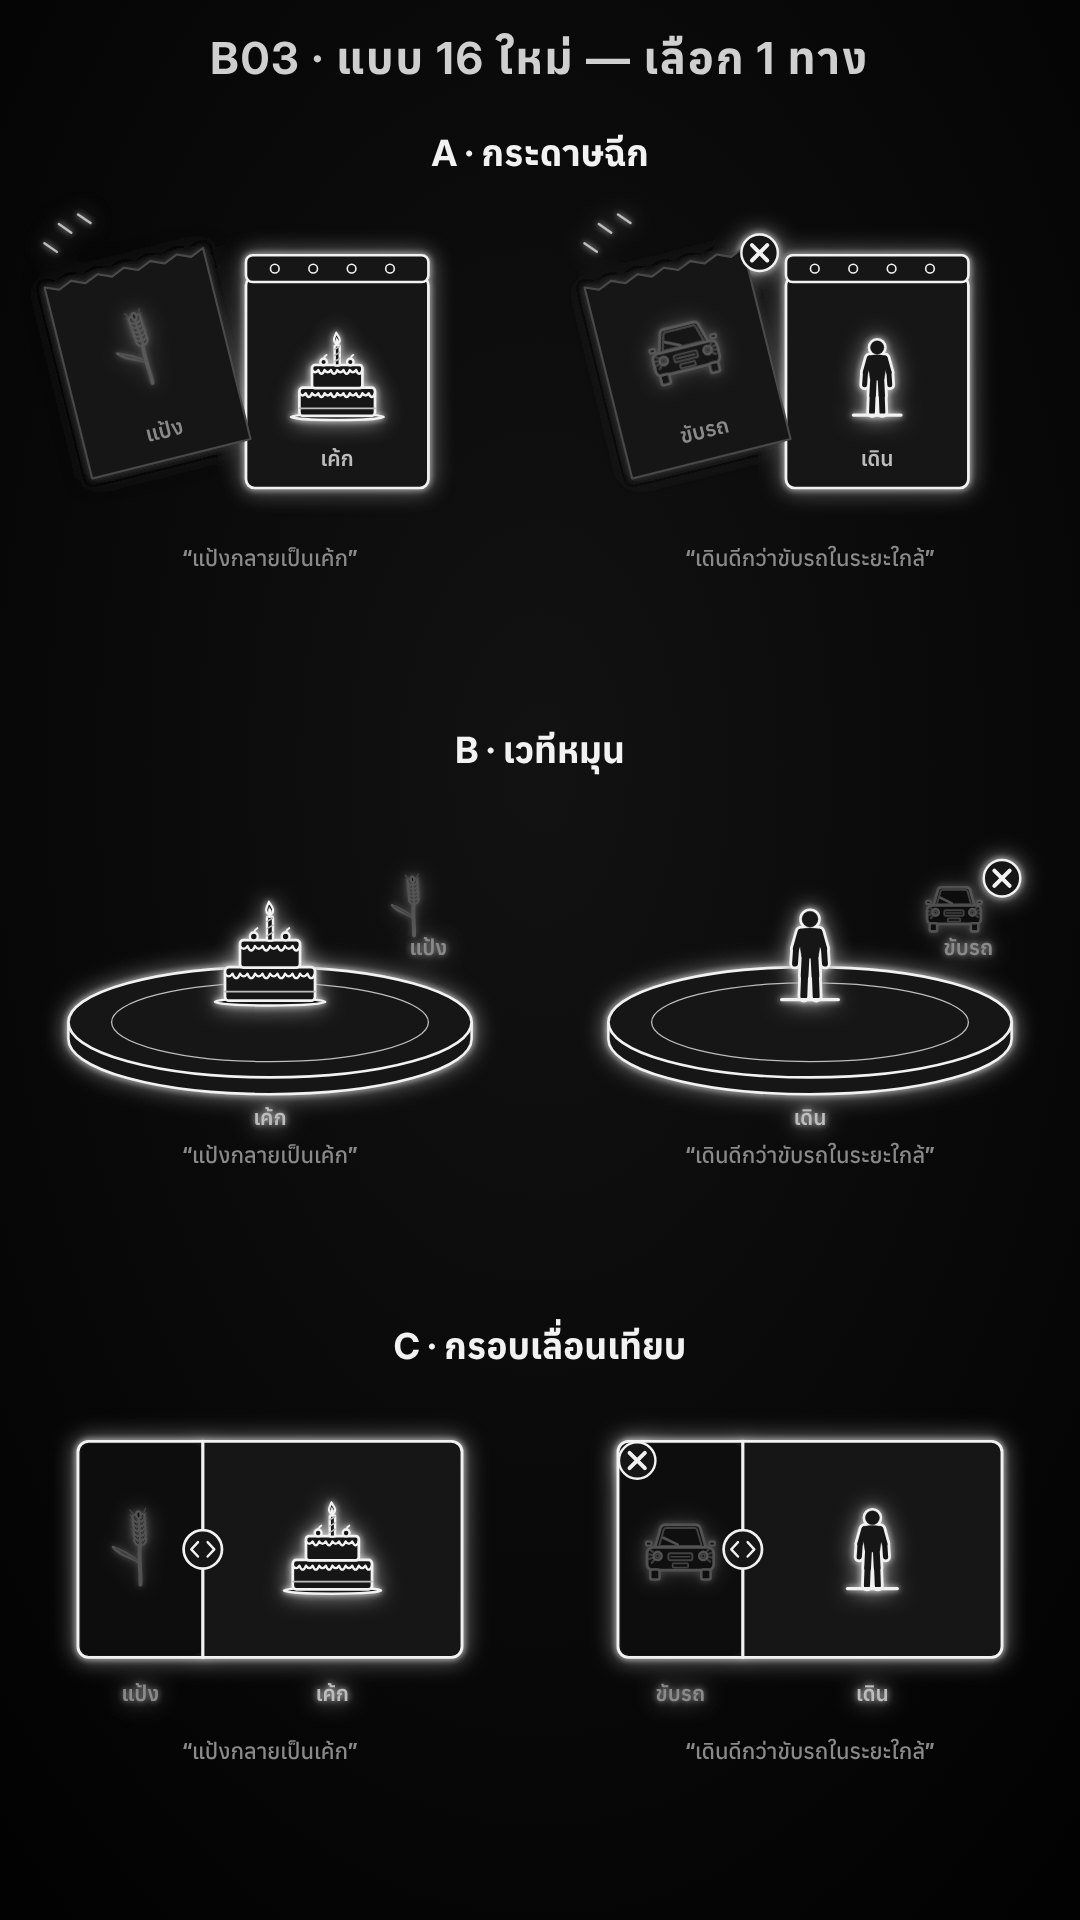
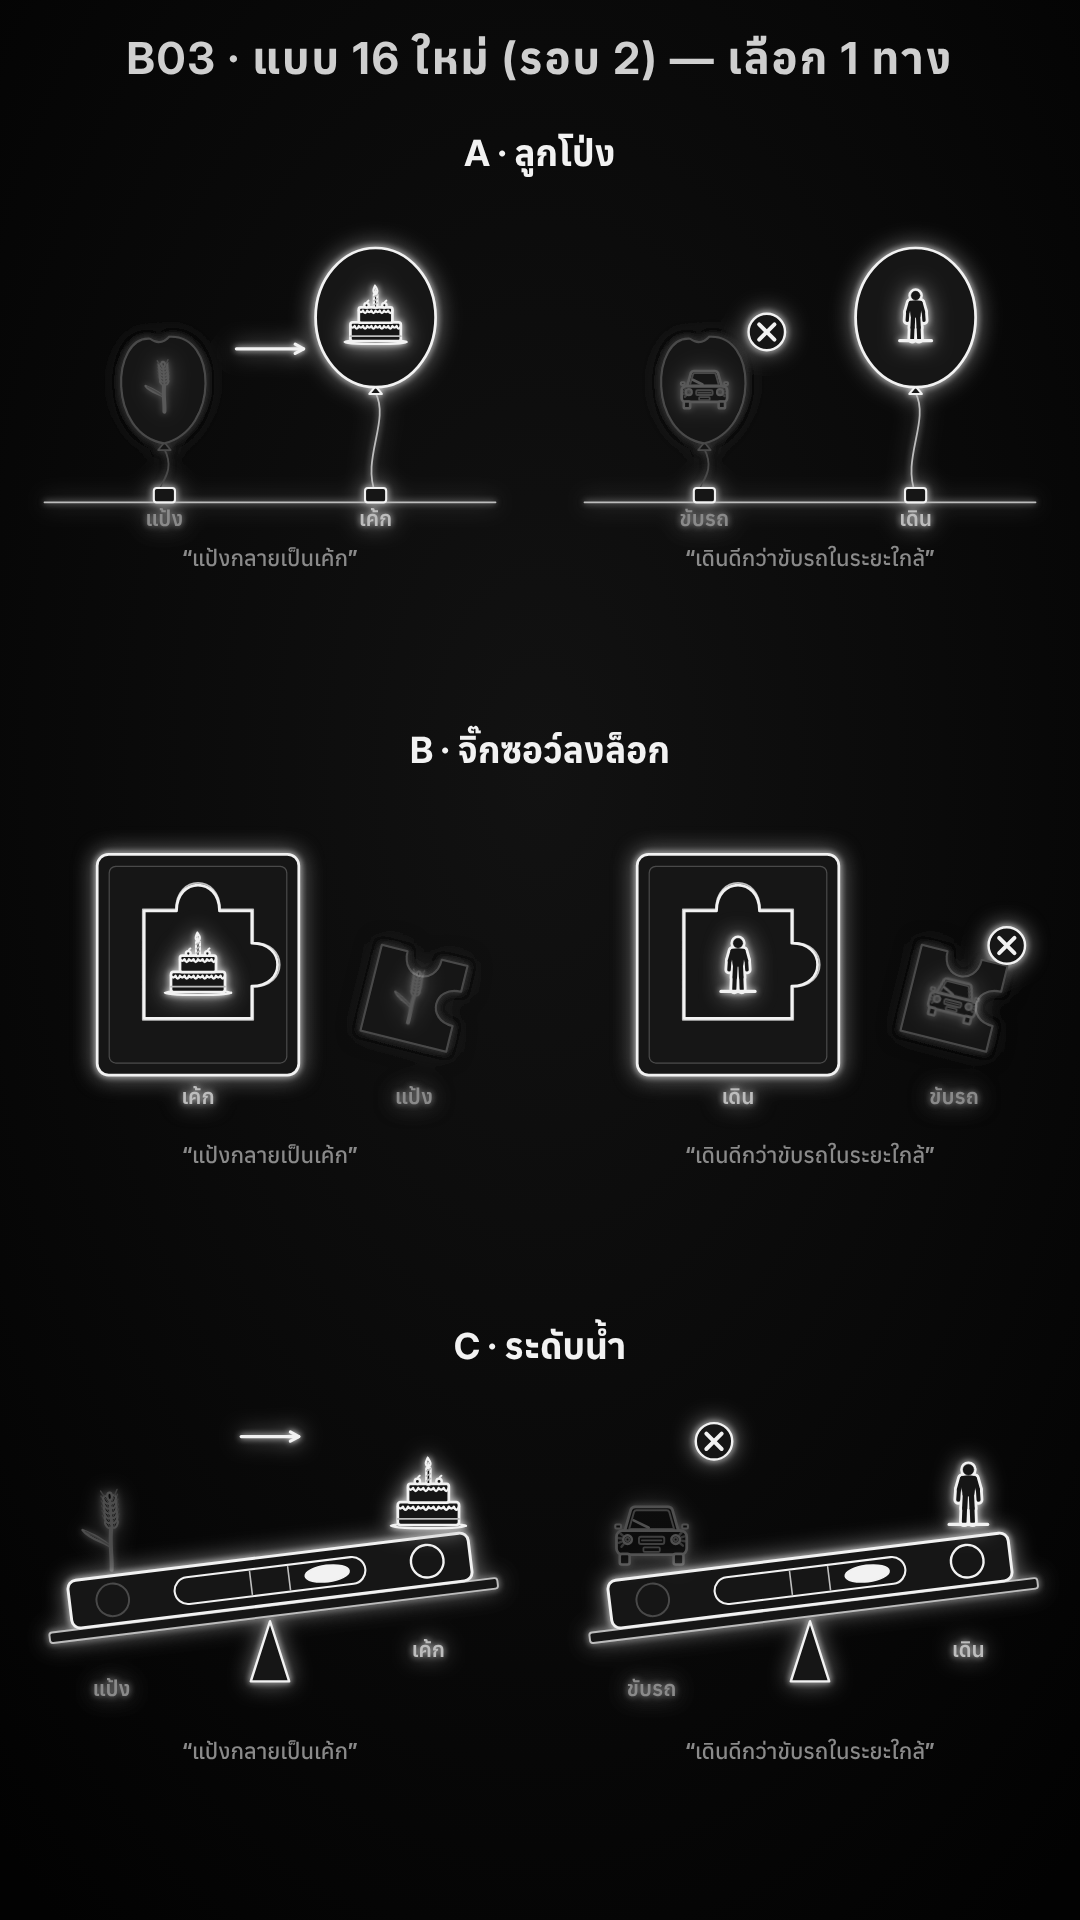
glow-line-motion: B03 design 16 — second round of options (balloons / puzzle / spirit level)
Claude-Session: https://claude.ai/code/session_01S8EfU7fAEGeBWyNc1CqSTP

diff --git a/.claude/skills/glow-line-motion/examples/b03/b03.js b/.claude/skills/glow-line-motion/examples/b03/b03.js
@@ -368,53 +368,65 @@
     icon(d.a.icon, 0, -190, 120, c, .1, { dimTo: .35, dimAt: H - .4 }); icon(d.b.icon, 0, 140, 140, c, H - .15, { punch: true });
   }, d => d.mode === 'change');
 
-  /* 16 alternatives (user: "16 Redesign ใหม่", 2026-11-13) — all take versus AND change; kept outside V until the user picks one */
+  /* 16 alternatives, round 2 (user: "16 Redesign มาใหม่อีก", 2026-11-13; turned down tear pad / turntable / compare frame) —
+     all take versus AND change; kept outside V until the user picks one */
   const ALT16 = [];
   const alt = (id, th, build) => ALT16.push({ id, th, build });
 
-  /* 16a ── TEAR PAD: the top page (the loser / "before") is torn off and flies away; the winner / "after" is the page left on the pad */
-  alt('pad', 'กระดาษฉีก', (d, c) => {
-    const T = st(d), keep = T.win || 'b', torn = keep === 'a' ? 'b' : 'a', px = -255, py = -10, pr = -14;
+  /* 16a ── BALLOONS: each side floats in a balloon tied to the ground — the winner (or more) floats high and full, the loser hangs low and limp */
+  alt('balloons', 'ลูกโป่ง', (d, c) => {
+    const T = st(d), X = { a: -220, b: 220 }, Y = s => 150 - T.amt(s) * 300, full = s => s !== T.lose;
     art(c, p => {
-      p.rect(-50, -190, 380, 440, Object.assign({ rx: 18 }, F(3.4)));
-      p.rect(-50, -235, 380, 56, Object.assign({ rx: 14 }, F(3.2))); [10, 90, 170, 250].forEach(x => p.circle(x, -207, 9, W(2)));
-      if (d[keep].label) txt(p, d[keep].label, 140, 205, { maxW: 320 });
-      const tp = sub(p, { transform: `rotate(${pr} ${px} ${py})` });
-      const zz = []; for (let k = 0; k <= 12; k++) zz.push([px - 170 + k * 340 / 12, py - 205 + (k % 2 ? 12 : 0)]);
-      tp.path(`M ${px - 170} ${py + 205} L ${px - 170} ${py - 205} ` + zz.map(([x, y]) => `L ${f1(x)} ${f1(y)}`).join(' ') + ` L ${px + 170} ${py + 205} Z`, T.win ? { fill: C.fill, sw: 2.6, stroke: C.rule } : F(3.2));
-      if (d[torn].label) txt(tp, d[torn].label, px, py + 160, { maxW: 280, color: T.win ? C.mute : C.soft });
-      [[-470, -260], [-440, -300], [-400, -320]].forEach(([x, y]) => p.line(x, y, x + 26, y + 18, { sw: 3, stroke: C.soft }));
-      marks(p, d, { [keep]: [320, -170], [torn]: [px + 150, py - 230] });
+      p.line(-470, 280, 470, 280, { sw: 2, stroke: C.soft });
+      ['a', 'b'].forEach(s => { const x = X[s], y = Y(s), rx = full(s) ? 125 : 100, ry = full(s) ? 145 : 112, by = y + ry;
+        p.path(`M ${x} ${f1(by + 12)} C ${x + 30} ${f1(by + 70)}, ${x - 30} ${f1((by + 280) / 2 + 30)}, ${x} 262`, { sw: 2.2, stroke: full(s) ? C.soft : C.rule });
+        p.rect(x - 22, 250, 44, 30, Object.assign({ rx: 6 }, F(2.6)));
+        p.path(`M ${x - 13} ${f1(by + 14)} L ${x} ${f1(by - 2)} L ${x + 13} ${f1(by + 14)} Z`, full(s) ? F(2.6) : { fill: C.fill, sw: 2, stroke: C.rule });
+        if (full(s)) p.ellipse(x, y, rx, ry, F(3.4));
+        else p.path(`M ${x} ${f1(by)} C ${x - 120} ${f1(by - 20)}, ${x - 110} ${f1(y - ry)}, ${x - 30} ${f1(y - ry + 6)} Q ${x - 8} ${f1(y - ry + 22)} ${x + 10} ${f1(y - ry + 2)} C ${x + 110} ${f1(y - ry - 4)}, ${x + 115} ${f1(by - 30)}, ${x} ${f1(by)} Z`, { fill: C.fill, sw: 2.6, stroke: C.rule });
+        if (d[s].label) txt(p, d[s].label, x, 330, { maxW: 300, color: full(s) ? C.soft : C.mute }); });
+      if (T.change) arrow(p, -70, -40, 70, -40, 4, 0);
+      marks(p, d, { a: [X.a + 130, Y('a') - 120], b: [X.b + 130, Y('b') - 120] });
     });
-    icon(d[keep].icon, 140, 20, 210, c, .1);
-    icon(d[torn].icon, px, py - 30, 160, c, .1, { dimTo: T.win ? .3 : 1, keys: { r: [[0, pr]] }, pivot: [px, py] });
+    ['a', 'b'].forEach(s => icon(d[s].icon, X[s], Y(s) - 4, full(s) ? 140 : 110, c, .1, { dimTo: T.dim(s) }));
   });
 
-  /* 16b ── TURNTABLE: a round stage turns — the winner / "after" comes round to the front and big, the other goes to the back, small and faint */
-  alt('stage', 'เวทีหมุน', (d, c) => {
-    const T = st(d), front = T.win || (T.change ? 'b' : null), back = front ? (front === 'a' ? 'b' : 'a') : null;
+  /* 16b ── PUZZLE: a board with one empty slot — the winner's piece (or the "after") clicks into it; the other piece doesn't fit and lies aside */
+  const piece = (q, x, y, z, inward, st2) => { const h = z / 2, t = z * .2, k = inward ? -1 : 1;
+    q.path(`M ${x - h} ${y - h} L ${x - t} ${y - h} C ${x - t} ${y - h - k * t * 1.6}, ${x + t} ${y - h - k * t * 1.6}, ${x + t} ${y - h} L ${x + h} ${y - h} L ${x + h} ${y - t} C ${x + h + k * t * 1.6} ${y - t}, ${x + h + k * t * 1.6} ${y + t}, ${x + h} ${y + t} L ${x + h} ${y + h} L ${x - h} ${y + h} Z`, st2); };
+  alt('puzzle', 'จิ๊กซอว์ลงล็อก', (d, c) => {
+    const T = st(d), win = T.win, lose = T.lose, bx = -150, Z = 230, rot = 14, LX = 300, LY = 70;
     art(c, p => {
-      p.path('M -420 120 L -420 155 A 420 115 0 0 0 420 155 L 420 120', F(3.2)); p.ellipse(0, 120, 420, 115, F(3.4)); p.ellipse(0, 120, 330, 82, { sw: 1.6, stroke: C.soft });
-      if (front) { if (d[front].label) txt(p, d[front].label, 0, 335, { maxW: 360 }); if (d[back].label) txt(p, d[back].label, 330, -20, { maxW: 200, color: C.mute }); }
-      else ['a', 'b'].forEach(s => d[s].label && txt(p, d[s].label, s === 'a' ? -200 : 200, 335, { maxW: 300 }));
-      marks(p, d, front ? { [front]: [150, -250], [back]: [400, -180] } : {});
+      p.rect(bx - 210, -230, 420, 460, Object.assign({ rx: 24 }, F(3.4))); p.rect(bx - 185, -205, 370, 410, { rx: 14, sw: 1.6, stroke: C.rule });
+      piece(p, bx, 0, Z, false, { fill: '#0b0b0b', sw: 2.2, stroke: C.soft, 'stroke-dasharray': '10 9' });
+      if (win) { piece(p, bx, 0, Z - 6, false, F(3.4)); if (d[win].label) txt(p, d[win].label, bx, 290, { maxW: 380 });
+        const g = sub(p, { transform: `rotate(${rot} ${LX} ${LY})` }); piece(g, LX, LY, Z * .8, true, { fill: C.fill, sw: 2.6, stroke: C.rule });
+        if (d[lose].label) txt(p, d[lose].label, LX, 290, { maxW: 260, color: C.mute }); }
+      else ['a', 'b'].forEach((s, k) => { const y = k ? 150 : -140; piece(p, LX, y, Z * .68, false, F(3)); if (d[s].label) txt(p, d[s].label, LX + 130, y + 12, { anchor: 'start', maxW: 110 }); });
+      marks(p, d, win ? { [win]: [bx + 150, -150], [lose]: [LX + 110, LY - 110] } : {});
     });
-    if (front) { icon(d[front].icon, 0, -20, 250, c, .1, { punch: true }); icon(d[back].icon, 300, -120, 130, c, .1, { dimTo: .3 }); }
-    else { icon(d.a.icon, -200, 10, 200, c, .1); icon(d.b.icon, 200, 10, 200, c, .1); }
+    if (win) { icon(d[win].icon, bx, 0, 150, c, .1, { punch: true }); icon(d[lose].icon, LX, LY, 115, c, .1, { dimTo: .3, keys: { r: [[0, rot]] }, pivot: [LX, LY] }); }
+    else { icon(d.a.icon, LX, -140, 105, c, .1); icon(d.b.icon, LX, 150, 105, c, .1); }
   });
 
-  /* 16c ── COMPARE FRAME: one picture split by a sliding handle — "before" on the left, "after" on the right; the handle shows more of the winner */
-  alt('compare', 'กรอบเลื่อนเทียบ', (d, c) => {
-    const T = st(d), hx = T.win === 'a' ? 140 : T.win === 'b' ? -140 : 0, L = -400, R = 400, top = -250, bot = 200;
+  /* 16c ── SPIRIT LEVEL: a level with a at one end and b at the other — it tips, and the bubble runs up to the winner's end (centred when undecided) */
+  alt('level', 'ระดับน้ำ', (d, c) => {
+    const T = st(d), tilt = T.win === 'a' ? 7 : T.win === 'b' ? -7 : 0, bx = T.win === 'a' ? -120 : T.win === 'b' ? 120 : 0;
+    const EX = { a: -330, b: 330 }, ey = s => 40 + EX[s] * Math.sin(rad(tilt));
     art(c, p => {
-      p.rect(L, top, R - L, bot - top, Object.assign({ rx: 22 }, F(3.6)));
-      if (T.lose) { const lx = T.lose === 'a'; p.rect(lx ? L + 6 : hx, top + 6, lx ? hx - L - 6 : R - hx - 6, bot - top - 12, { rx: 18, fill: '#0b0b0b', sw: 0, stroke: 'none' }); }
-      p.line(hx, top, hx, bot, W(4)); p.circle(hx, (top + bot) / 2, 40, F(3.4));
-      p.poly([[hx - 10, -40], [hx - 24, -25], [hx - 10, -10]], W(3)); p.poly([[hx + 10, -40], [hx + 24, -25], [hx + 10, -10]], W(3));
-      ['a', 'b'].forEach(s => { if (!d[s].label) return; const cx = s === 'a' ? (L + hx) / 2 : (hx + R) / 2; txt(p, d[s].label, cx, 290, { maxW: 300, color: s === T.lose ? C.mute : C.soft }); });
-      marks(p, d, { a: [L + 40, top + 40], b: [R - 40, top + 40] });
+      const g = sub(p, { transform: `rotate(${tilt} 0 40)` });
+      g.rect(-470, 92, 940, 22, Object.assign({ rx: 6 }, { fill: C.fill, sw: 2.4, stroke: C.soft }));          // the plank it lies on tips with it
+      g.rect(-420, -10, 840, 100, Object.assign({ rx: 18 }, F(3.6)));
+      g.rect(-200, 12, 400, 56, Object.assign({ rx: 28 }, F(2.6)));
+      [-40, 40].forEach(x => g.line(x, 16, x, 64, { sw: 2, stroke: C.soft }));
+      g.ellipse(bx, 40, 46, 17, { fill: C.ink, sw: 2, 'fill-opacity': .2 });
+      ['a', 'b'].forEach(s => g.circle(EX[s], 40, 34, s === T.lose ? { fill: C.fill, sw: 2.4, stroke: C.rule } : F(3)));
+      p.path('M -40 250 L 40 250 L 0 125 Z', F(3));                                                                   // the pivot under the middle
+      if (T.change) arrow(p, -60, -260, 60, -260, 4, 0);
+      ['a', 'b'].forEach(s => d[s].label && txt(p, d[s].label, EX[s], ey(s) + 200, { maxW: 280, color: s === T.lose ? C.mute : C.soft }));
+      marks(p, d, { a: [-200, -250], b: [460, -250] });
     });
-    ['a', 'b'].forEach(s => { const w = s === 'a' ? hx - L : R - hx, cx = s === 'a' ? (L + hx) / 2 : (hx + R) / 2; icon(d[s].icon, cx, -25, Math.min(220, w * .62), c, .1, { dimTo: T.dim(s) }); });
+    ['a', 'b'].forEach(s => icon(d[s].icon, EX[s], ey(s) - 140, 170, c, .1, { dimTo: T.dim(s), punch: s === T.win }));
   });
 
   /* 17 ── BALLOT: both rows come in with empty boxes — on the keyword the winner is ticked, the loser crossed (or "before" struck out) */

diff --git a/.claude/skills/glow-line-motion/examples/b03/alt16.html b/.claude/skills/glow-line-motion/examples/b03/alt16.html
@@ -6,7 +6,7 @@
 GL.run(() => {
   GL.stage();
   const B = GL.cats.B03, D = [B.SAMPLES[15], B.SAMPLES[16]];
-  GL.text('B03 · แบบ 16 ใหม่ — เลือก 1 ทาง', { y: 74, size: 44, ls: 2, color: GL.C.kicker, glow: false });
+  GL.text('B03 · แบบ 16 ใหม่ (รอบ 2) — เลือก 1 ทาง', { y: 74, size: 44, ls: 2, color: GL.C.kicker, glow: false });
   const top = 120, rh = (GL.H - top - 10) / 3, s = .48;
   B.ALT16.forEach((v, r) => {
     const y0 = top + r * rh;

diff --git a/.claude/skills/glow-line-motion/HANDOFF.md b/.claude/skills/glow-line-motion/HANDOFF.md
@@ -82,6 +82,9 @@
 - ผู้ใช้: **"16 Redesign ใหม่"** (hourglass) → เสนอ 3 ทาง `GL.cats.B03.ALT16` (ทุกทางรับทั้ง versus และ change): A pad กระดาษฉีก ·
   B stage เวทีหมุน · C compare กรอบเลื่อนเทียบ — แผ่น `examples/b03/alt16.html`, ภาพ `motion/glow-line-cats/b03/b03-16-options.png` (ยังเป็นภาพนิ่ง).
   **รอผู้ใช้เลือก** → ใส่แทน hourglass ใน `V` + เขียนท่าขยับ + ทำวิดีโอใหม่ (ทางที่เลือกยังไม่มีท่า). ถัดไป: B04.
+- ผู้ใช้: **"16 Redesign มาใหม่อีก"** (ไม่เอา pad / stage / compare) → รอบ 2 `ALT16`: A balloons ลูกโป่ง (ชนะลอยสูงเต็ม แพ้ห้อยต่ำแฟบ) ·
+  B puzzle จิ๊กซอว์ลงล็อก (ชิ้นผู้ชนะลงช่อง ชิ้นแพ้ลิ้นกลับด้าน ใส่ไม่ได้ วางเอียงข้าง) · C level ระดับน้ำ (แผ่นไม้+ระดับเอียง ฟองวิ่งไปฝั่งชนะ)
+  — ภาพ `b03-16-options.png` (เขียนทับรอบแรก). **รอผู้ใช้เลือก.**
 - ผู้ใช้: **"ด้ามจับมันไม่ควรจะเลยเข้าไปในเลนส์"** แล้ว **"ออกแบบแว่นขยายให้ดีกว่านี้"** → `magnifier(q, cx, cy, R, ang)` ใหม่ (b03.js):
   ขอบเลนส์หนาสองชั้น (วงแหวนถมดำ evenodd + เส้นในบาง), คอต่อ (ปลอก + เส้นรอยต่อ), ด้ามมนมีร่องกันลื่น 4 เส้น (อยู่ในขอบด้าม),
   เลนส์ใส ไม่มีแสงสะท้อน; ด้ามเริ่มนอกขอบเลนส์ ไม่ยื่นเข้าไป. ใช้ทั้งแบบมีผู้ชนะ (45°) และยังไม่ตัดสิน (ด้ามลง).
